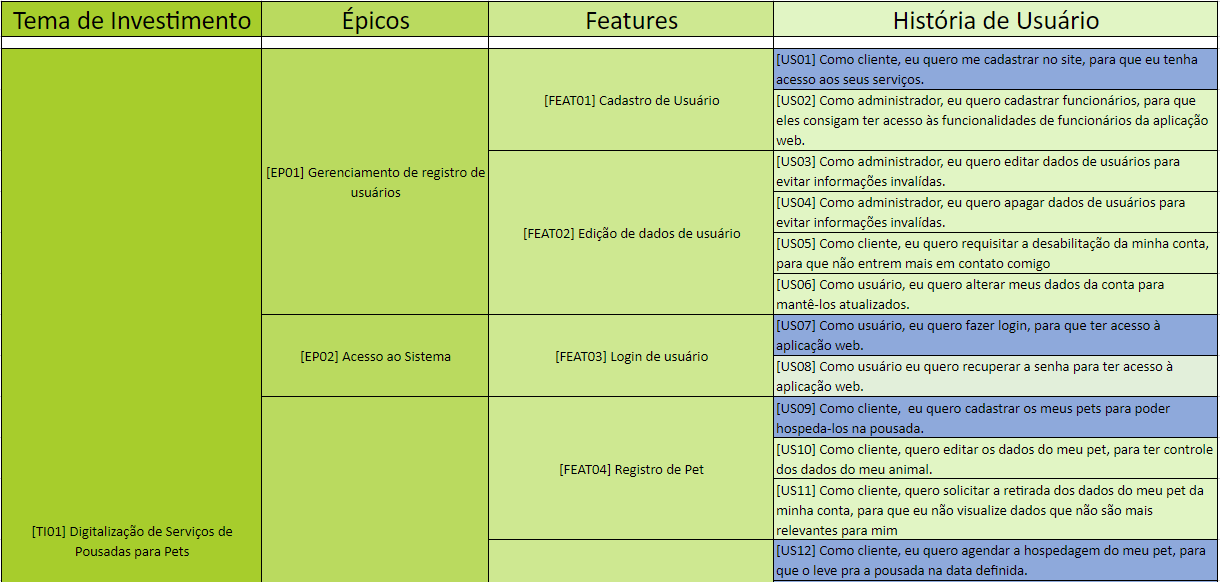
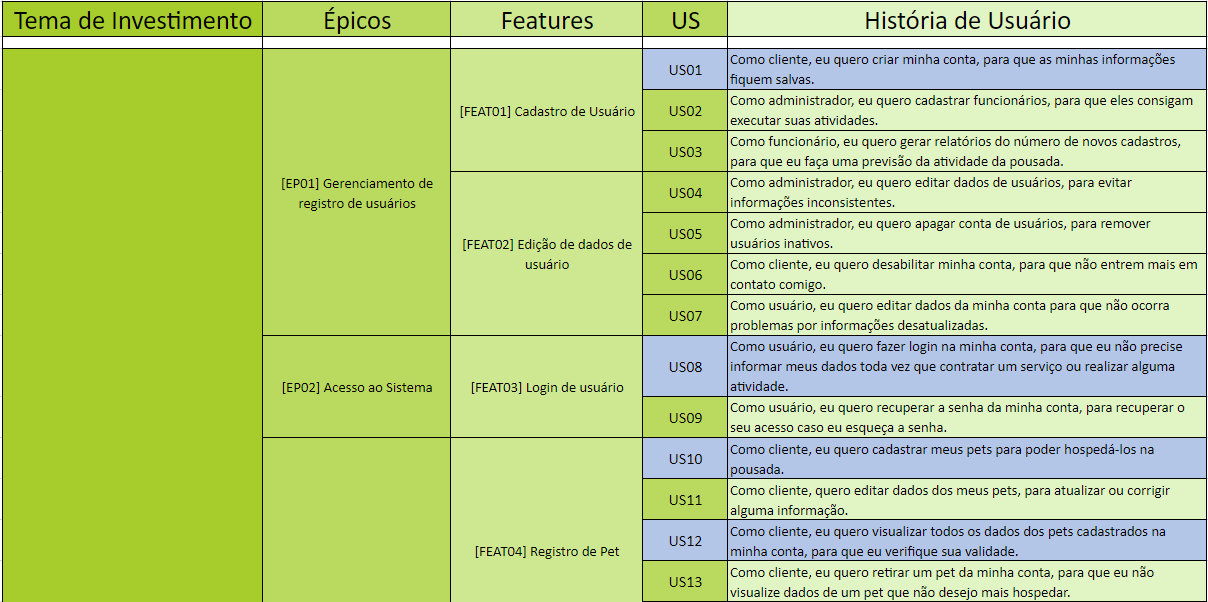
Update product backlog and project management

diff --git a/docs/unit-4/project-management.md b/docs/unit-4/project-management.md
@@ -4,6 +4,7 @@
 | Data       | Autor                                        | Modificações                      | Versão |
 | ---------- | -------------------------------------------- | --------------------------------- | ------ |
 | 01/04/2022 | [Luís Lins](https://github.com/luisgaboardi) | Cria documento para entrega da unidade, ajustando planejamento de iterações | 1.0 |
+| 08/04/2022 | [Luís Lins](https://github.com/luisgaboardi) | Atualiza planejamento de iterações | 1.1 |
 
 ## Organização do Projeto
 
@@ -25,13 +26,13 @@
 | OK | Sprint 5 | Melhorias do backlog do produto, levantamento do MVP, planejamento do Projeto, entrega da Unidade 2 | 21/02/2022 | 27/02/2022 |
 | OK | Sprint 6 | Inicio do desenvolvimento, página inicial | 28/02/2022 | 06/03/2022 |
 | OK | Sprint 7 | [FEAT01] - US01 | 07/03/2022 | 13/03/2022 |
-| OK | Sprint 8 | [FEAT03] - US07 | 14/03/2022 | 20/03/2022 |
-| OK | Sprint 9 | [FEAT04] - US09 | 21/03/2022 | 27/03/2022 |
-| OK | Sprint 10 | [FEAT05] - US12 | 26/03/2022 | 01/04/2022 |
-| -  | Sprint 11 | [FEAT05] - US13 (Entrega do [MVP 1]()| 02/04/2022 | 08/04/2022 |
-| -  | Sprint 12 | [FEAT05] US14, [FEAT06] - US15, US16 | 09/04/2022 | 15/04/2022 |
-| -  | Sprint 13 | [FEAT07] - US18, US19, [FEAT08] - US21 | 16/04/2022 | 22/04/2022 |
-| -  | Sprint 14 | Documentação da entrega final da disciplina (Entrega do [MVP 2]()) | 23/04/2022 | 29/04/2022 |
+| OK | Sprint 8 | [FEAT03] - US08 | 14/03/2022 | 20/03/2022 |
+| OK | Sprint 9 | [FEAT04] - US10 | 21/03/2022 | 27/03/2022 |
+| OK | Sprint 10 | [FEAT04] - US12 | 26/03/2022 | 01/04/2022 |
+| OK | Sprint 11 | [FEAT05] - US15, US18 (Entrega do [MVP 1]()| 02/04/2022 | 08/04/2022 |
+| -  | Sprint 12 | [FEAT06] US21, [FEAT07] - US25 | 09/04/2022 | 15/04/2022 |
+| -  | Sprint 13 | [FEAT05] - US17, US19 | 16/04/2022 | 22/04/2022 |
+| -  | Sprint 14 | [FEAT06] - US20, [FEAT07] - US20, (Entrega do [MVP 2]()) | 23/04/2022 | 29/04/2022 |
 
 ## Matriz de Comunicação
 

diff --git a/docs/unit-4/product-backlog.md b/docs/unit-4/product-backlog.md
@@ -5,6 +5,7 @@
 | ---------- | -------------------------------------------- | --------------------------------- | ------ |
 | 01/03/2022 | [Luís Lins](https://github.com/luisgaboardi), [Kathlyn Lara](https://github.com/klmurussi) | Adiciona seção explanando o que será entregue em cada release | 1.0 |
 | 06/04/2022 | [Luís Lins](https://github.com/luisgaboardi) | Atualiza histórias do MVP1 e MVP2 | 1.1 |
+| 08/04/2022 | [Luís Lins](https://github.com/luisgaboardi) | Atualiza imagem do product backlog | 1.2 |
 
 ## Introdução
 O Backlog do Produto faz parte da metodologia Scrum, onde é colocado todas os requisitos necessarios para o desenvolvimento do projeto. Para a organização do backlog foi utilizado a estrutura de organização de requisitos do SAFe, que é divida em quatro partes: Temas de investimento, épicos, features e histórias de usuário.
